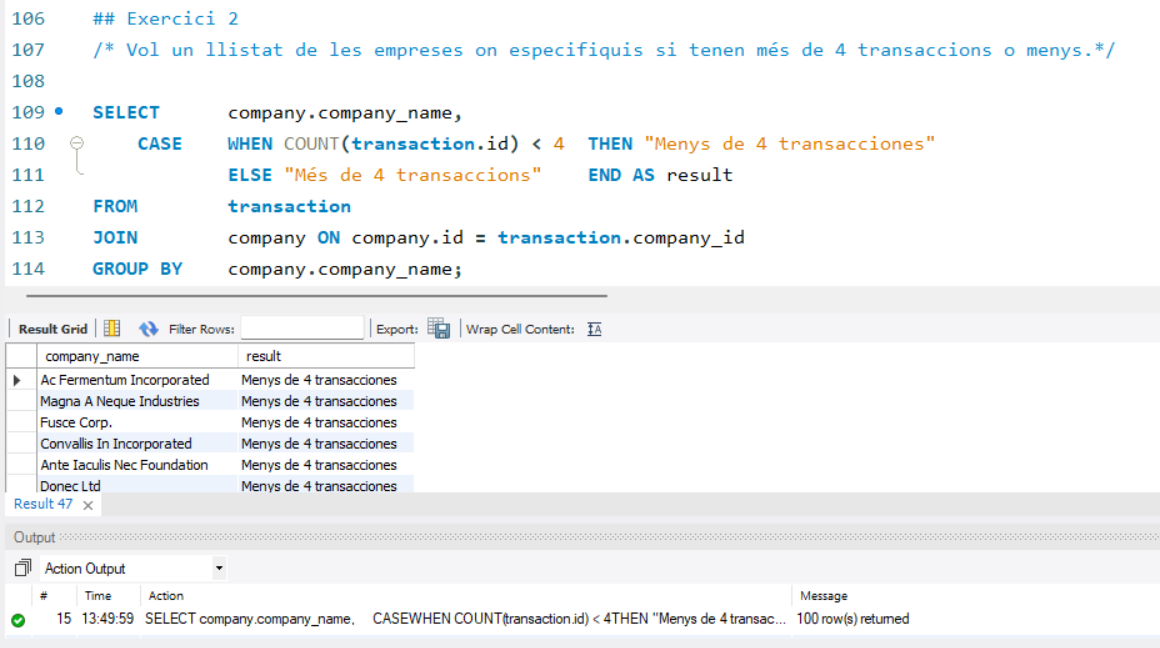
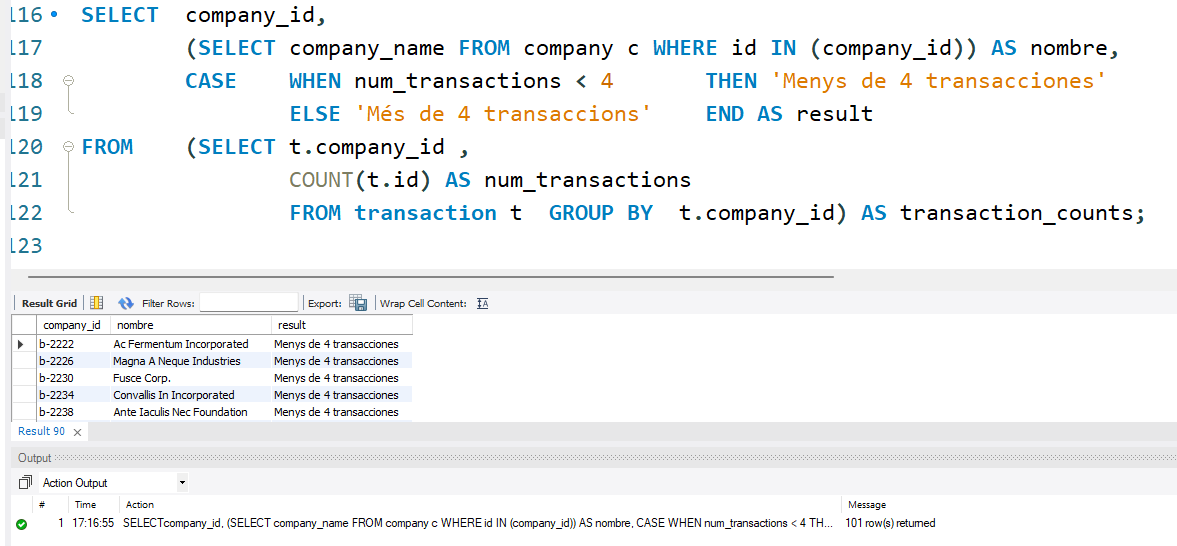
rectificaciones

Changed region(s): [[0.0, 0.0, 0.9621, 0.9652], [0.7759, 0.8095, 0.8069, 0.8407], [0.3103, 0.8095, 0.3414, 0.8407]]

diff --git a/Sprint_2_respuestas.md b/Sprint_2_respuestas.md
@@ -2,35 +2,22 @@
 # Sprint 2: Nivel 1
 
 ## Exercici 1
-Muestra todas las trasacciones realizadas por empresas de alemania
+Mostra totes les transaccions realitzades per empreses d'Alemanya.	
 
+#### Respuesta
 Para resolver este exercici utilizo el siguiente código: 
-
-![](files_sprin2/S2N1E1-1.png)
-
-
-Utilizo la función WHERE = "germany" para seleccionar solo las empresas de Alemania.
+- Para realizarlo at traves de subquery:
 
 ![logo](files_sprin2/S2N1E1.png)
 
-
-
 ## Exercici 2
+Màrqueting està preparant alguns informes de tancaments de gestió, et demanen que els passis un llistat de les empreses que han realitzat transaccions per una suma superior a la mitjana de totes les transaccions.
 
-Marketing solicita un listado de empresas que hayan realizado transacciones por encima del promedio de todas las transacciones para informes de cierre de gestión.
+#### Respuesta
 
-**Paso 1**: Obtener el valor de la media de todas las transacciones
+**Paso 1**: Genero la subquery para obtener la lista de id de las empresas cuyo valor de la media tranacciones fue mayor a la media.
 
-![](files_sprin2/S2N1E2-1.png)
-
-
-**Paso 2**: Obtener una tabla que indique las empresas que han hecho transacciones mayores que la media
-
-![](files_sprin2/S2N1E2-2.png)
-
-Utilizo las funciones AVG() y DISTINCT para calcular la media de las transacciones y obtener una lista única de países respectivamente.
-
-Finalmente el output total es el siguiente:
+**Paso 2**: Utilizo subquery con el comando ***WHERE*** y con la funcion IN para ligarla a la subquery.
 
 ![](files_sprin2/S2N1E2.png)
 
@@ -39,13 +26,9 @@ Finalmente el output total es el siguiente:
 
 El departament de comptabilitat va perdre la informació de les transaccions realitzades per una empresa, però no recorden el seu nom, només recorden que el seu nom iniciava amb la lletra c. Com els pots ajudar? Comenta-ho acompanyant-ho de la informació de les transaccions.
 
-1. Lo primero es identificar aquellas compañias que cumplen con la condicion de comenzar con la letra "c". 		
-   
-	En este caso bastará con un JOIN y un WHERE con el comando LIKE.
+#### Respuesta
 
-![](files_sprin2/S2N1E3-1.png)
-
-- El comando _**LIKE**_ permite buscar un patrón, que en este caso es que la primera letra comience por "c".
+1. Primero genero la subquery para identificar aquellas compañias que cumplen con la condicion de comenzar con la letra "c". El comando _**LIKE**_ permite buscar un patrón, que en este caso es que la primera letra comience por "c".
 
 El resultado completo es el siguiente: 
 
@@ -56,58 +39,58 @@ El resultado completo es el siguiente:
 
 Van eliminar del sistema les empreses que no tenen transaccions registrades, lliura el llistat d'aquestes empreses.
 
-### Opcion 1
-
-Para ello, deberia tener un tipo de join en el que tenga las emprseas que no tienen transacciones. Puedo usar un left join y buscar valores que sean nulo. 
-
-Es decir, con un left join tendré una tabla con aquellas compañias que estando en la tabla company, en la tabla transacition no estan y por lo mismo, en este join el valor será null
-
-![](files_sprin2/S2N1E4.png)
-### Opcion 2
-Tambien podría utilizar una subquery para realizar la misma consulta
+#### Respuesta
 
 - El _IN_ sirve para specify multiple possible values for a column, 
 - Puedo generar una subquery con los valores de una tabla
 
-En otras palabras, esta parte de la consulta selecciona solo aquellas filas de la tabla _**transaction**_ cuyo _company_id_ no está presente en la columna _id_ de la tabla _**company**_.
-![](files_sprin2/S2N1E4-1.png)
+En otras palabras, esta parte de la consulta selecciona solo aquellas filas de la tabla ***transaction*** cuyo _company_id_ no está presente en la columna _id_ de la tabla ***company***.
 
+![](files_sprin2/S2N1E4.png)
 
-En ambos casos el resultado es null o vacio.
+En este caso todas las compañias tienen transacciones, por lo que el output queda igual a ***company***.
 
-
-
-
-
+///////////
 # Sprint 2- Nivel 2
 ## Exercici 1
+En la teva empresa, es planteja un nou projecte per a llançar algunes campanyes publicitàries per a fer competència a la companyia **Non Institute**. Per a això, et demanen la llista de totes les transaccions realitzades per empreses que estan situades en el mateix país que aquesta companyia.
 
+### Comentario: Nos habian dicho en clase que la empresa era la otra.
+
+### Respuesta Corregida con subquery:
 
 ![](files_sprin2/S2N2E1.png)
 
-- En este caso, para seleccionar las columnas de transaction, podemos utilizar el comando ```transaction.*```
-- Con la subquery tenemos como resultado el pais de la empresa indicada en el enunciado. 
+- Creo una subquery que tenga como resultado el pais de la empresa
+- Despues creo otra query que genere la lista de las empresas que tienen el mismo pais
+- Finalmente genero el Query con las subquery en el **WHERE**
 
 ## Exercici 2
 
+### Respuesta Corregida con subquery:
 ![](files_sprin2/S2N2E2.png)
+
+1. El company_id me serivrá para obtener el nombre y el monto ya que los utilizaré en las otras subqueries del las **SELECT**
+2. Una subquery me que entregue el company_name en base el company_id anterior
+3. Otra subquery que me entreque el monto maximo  de las transacciones.
+4. la siguiente subquery es la importante ya que me permitira tener el company_id necesario para las otras querys
 
 
 # Sprint 2 - Nivell 3
 ## Exercici 1
 S'estan establint els objectius de l'empresa per al següent trimestre, per la qual cosa necessiten una base sòlida per a avaluar el rendiment i mesurar l'èxit en els diferents mercats. Per a això, necessiten el llistat dels països la mitjana de transaccions dels quals sigui superior a la mitjana general.
 
+### Respuesta Corregida con subquery:
+
 ![](files_sprin2/S2N3E1.png)
-
-
-
 
 ## Exercici 2
 El Departament de recursos humans vol un llistat de les empreses on especifiquis si tenen més de 4 transaccions o menys.
 
-Que debo tener?
+### Respuesta Corregida con subquery
 
 ![](files_sprin2/S2N3E2.png)
 
 - En este caso tengo una tabla en la que creo una columna llamada "result" en la que indico si tiene "Mes de 4 trasnacciones" o "menys de 4 trasnacciones"
-- Para ello, utilizo un comando CASE que permite establecer una condicion. 
+- Para ello, utilizo un comando CASE que permite establecer una condicion.
+- En este casodevuelve 101 resultado por que está incluido el b-9999.  
